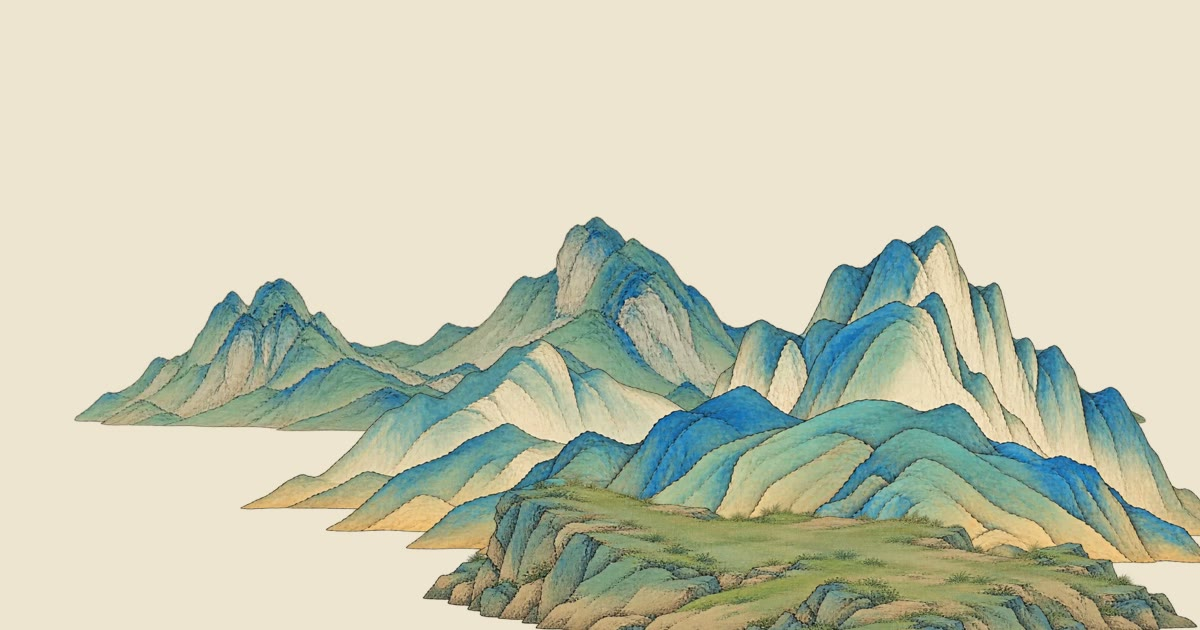
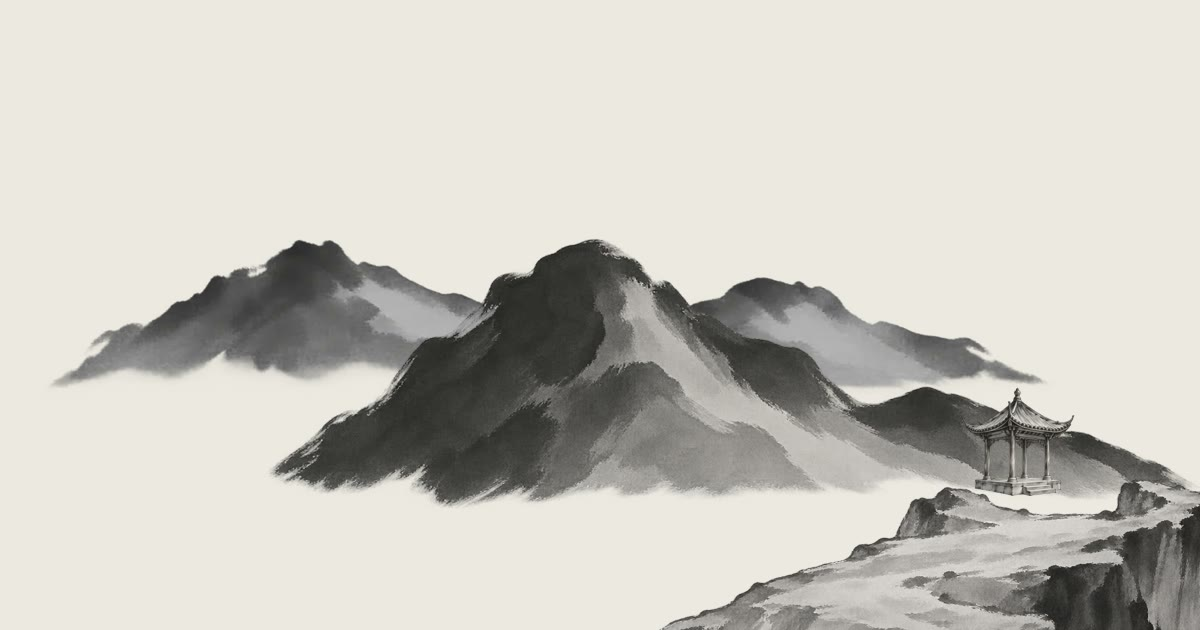
将见山官网改为水墨画风

diff --git a/site/assets/home.css b/site/assets/home.css
@@ -1,10 +1,10 @@
 :root {
-  --paper: #f6f1e6;
-  --ink: #23372f;
-  --muted: #515e51;
-  --green: #2f4b3d;
-  --red: #984f3f;
-  --rule: #23372f2c;
+  --paper: #f4f2ec;
+  --ink: #242824;
+  --muted: #52554f;
+  --green: #313631;
+  --red: #9e4537;
+  --rule: #2428242c;
   --serif: "Songti SC", "Noto Serif CJK SC", "Noto Serif SC", "STSong", "SimSun", serif;
   --sans: -apple-system, BlinkMacSystemFont, "PingFang SC", "Microsoft YaHei", sans-serif;
 }
@@ -34,7 +34,7 @@ section[id] { scroll-margin-top: 84px; }
   position: sticky;
   top: 0;
   z-index: 5;
-  background: #f6f1e6f2;
+  background: #f4f2ecf2;
   border-bottom: 1px solid var(--rule);
   backdrop-filter: blur(16px);
 }
@@ -61,37 +61,37 @@ section[id] { scroll-margin-top: 84px; }
   overflow: hidden;
   min-height: clamp(625px, calc(100svh - 74px), 950px);
   display: flex;
-  background: #ece5d3;
+  background: #ebe9e2;
 }
-.landscape { position: absolute; inset: 0; z-index: -1; overflow: hidden; background: linear-gradient(154deg, #f6efe1 18%, #e8dec4 58%, #b2bc9e); }
+.landscape { position: absolute; inset: 0; z-index: -1; overflow: hidden; background: linear-gradient(154deg, #f9f7f0 15%, #eae8df 55%, #c1c3ba); }
 .hero-sun, .ridge, .shore, .water, .paper-grain { position: absolute; }
 [data-depth] { translate: 0 var(--drift, 0px); }
 .hero-sun {
   top: 13%;
   right: 19%;
-  width: clamp(86px, 11.5vw, 185px);
+  width: clamp(72px, 9.5vw, 152px);
   aspect-ratio: 1;
   border-radius: 50%;
-  background: radial-gradient(circle at 42% 34%, #e3a775, #c27e58);
-  box-shadow: 0 0 62px #ce956955;
+  background: radial-gradient(circle at 42% 34%, #b96752, #9d4234);
+  box-shadow: 0 0 62px #a74b372b;
   opacity: .86;
 }
 .ridge { max-width: none; pointer-events: none; }
-.ridge-far { width: 93%; right: -5%; bottom: 28%; opacity: .55; filter: saturate(.6); mask-image: linear-gradient(90deg, transparent, #000 43%); }
-.ridge-left { width: 58%; left: -30%; bottom: 13%; opacity: .67; filter: saturate(.6); }
-.ridge-right { width: 71%; right: -6%; bottom: 18%; filter: saturate(.72); }
+.ridge-far { width: 101%; right: -3%; bottom: 34%; opacity: .28; mask-image: linear-gradient(90deg, transparent, #000 43%); }
+.ridge-left { width: 74%; left: -30%; bottom: 20%; opacity: .38; }
+.ridge-right { width: 75%; right: -10%; bottom: 20%; opacity: .77; }
 .water {
   inset: 57% 0 0;
-  background: linear-gradient(180deg, transparent, #eee8d5c9 58%, #d6dcc3 100%);
+  background: linear-gradient(180deg, transparent, #f4f2eac2 54%, #dedfd8 100%);
 }
-.shore { right: -8%; bottom: -7%; width: 69%; }
-.island { width: 100%; filter: saturate(.65); }
-.pavilion { position: absolute; width: 11%; left: 38%; top: 11%; filter: saturate(.76); }
-.pines { position: absolute; width: 29%; right: 15%; bottom: 39%; filter: saturate(.65); }
+.shore { right: -6%; bottom: -13%; width: 61%; }
+.ink-bank { width: 100%; }
+.pavilion { position: absolute; width: 13%; left: 61%; top: -18%; }
 .paper-grain {
   inset: 0;
   background: url("media/paper.webp") repeat;
-  opacity: .22;
+  opacity: .20;
+  filter: grayscale(1);
   mix-blend-mode: multiply;
   pointer-events: none;
 }
@@ -101,7 +101,7 @@ section[id] { scroll-margin-top: 84px; }
 .eyebrow span { width: 19px; height: 1px; background: currentColor; }
 .hero h1 { margin: .09em 0 .13em; font-size: clamp(6.2rem, 12.4vw, 12rem); letter-spacing: -.095em; line-height: 1; }
 .hero-line { font: 700 clamp(1.46rem, 2.6vw, 2.55rem)/1.4 var(--serif); letter-spacing: .04em; }
-.hero-detail { margin-top: 13px; color: #38483b; }
+.hero-detail { margin-top: 13px; color: #434641; }
 .hero-actions { display: flex; gap: 24px; align-items: center; flex-wrap: wrap; margin-top: 30px; }
 .button {
   display: inline-flex;
@@ -119,7 +119,7 @@ section[id] { scroll-margin-top: 84px; }
 }
 .button:hover { background: #203c3010; }
 .primary { background: var(--green); border-color: var(--green); color: #fff8e8; }
-.primary:hover { background: #223b2f; }
+.primary:hover { background: #252a25; }
 .text-link { font-size: .875rem; white-space: nowrap; text-decoration: none; border-bottom: 1px solid currentColor; padding-block: 5px; }
 .hero-inscription {
   position: absolute;
@@ -128,7 +128,7 @@ section[id] { scroll-margin-top: 84px; }
   writing-mode: vertical-rl;
   font: 700 .95rem/1.2 var(--serif);
   letter-spacing: .35em;
-  color: #5e5948;
+  color: #53524b;
 }
 .hero-foot {
   position: absolute;
@@ -140,9 +140,9 @@ section[id] { scroll-margin-top: 84px; }
   font-size: .76rem;
   letter-spacing: .12em;
 }
-.hero-foot > span { display: flex; align-items: center; gap: 9px; padding: 3px 9px; border-radius: 3px; background: #f6f1e6df; }
+.hero-foot > span { display: flex; align-items: center; gap: 9px; padding: 3px 9px; border-radius: 3px; background: #f4f2ecdf; }
 .hero-foot i { width: 22px; height: 1px; background: currentColor; }
-.hero-foot a { color: #283c31; background: #f6f1e6df; border-radius: 3px; padding: 3px 9px; text-decoration: none; }
+.hero-foot a { color: #343731; background: #f4f2ecdf; border-radius: 3px; padding: 3px 9px; text-decoration: none; }
 .hero-foot a:hover { text-decoration: underline; }
 
 .scenes, .gallery {
@@ -176,12 +176,12 @@ section[id] { scroll-margin-top: 84px; }
   place-items: center;
   aspect-ratio: 1 / 1.07;
   border: 1px solid #7f87796b;
-  background: linear-gradient(#f4f0dd38, #f4f0dd38), #c7cbb1 url("media/paper.webp") center/360px;
+  background: linear-gradient(#f4f0dd38, #f4f0dd38), #d1d0c7 url("media/paper.webp") center/360px;
   background-blend-mode: normal, multiply;
   overflow: hidden;
 }
-.scene-mount[data-view="rain"] { background-color: #8da59c; }
-.scene-mount[data-view="snow"] { background-color: #d5d8cf; }
+.scene-mount[data-view="rain"] { background-color: #babdb7; }
+.scene-mount[data-view="snow"] { background-color: #d5d5ce; }
 .scene-mount::before { content: ""; position: absolute; inset: 4%; border: 1px solid #26382d38; pointer-events: none; }
 .mount-inner {
   width: 41%;
@@ -196,12 +196,12 @@ section[id] { scroll-margin-top: 84px; }
 .mount-title i { background: #8e473b; color: #fff2d8; padding: 1px 3px; font: 700 .64rem/1.4 var(--serif); }
 .scene-figure figcaption { display: flex; justify-content: space-between; gap: 8px; margin-top: 10px; color: var(--muted); font-size: .76rem; letter-spacing: .1em; }
 
-.breath { position: relative; isolation: isolate; overflow: hidden; background: linear-gradient(158deg, #172d27, #233c34 62%, #304b42); color: #f6ebd1; }
+.breath { position: relative; isolation: isolate; overflow: hidden; background: linear-gradient(158deg, #1b201e, #252a28 62%, #383e39); color: #f6ebd1; }
 .breath-terrain {
   position: absolute;
   inset: 0;
   z-index: -1;
-  background: url("media/distant-ridges.webp") right bottom / min(95%, 1150px) auto no-repeat;
+  background: url("media/ink-ridges.webp") right bottom / min(95%, 1150px) auto no-repeat;
   filter: grayscale(1) brightness(.62);
   opacity: .21;
   pointer-events: none;
@@ -253,7 +253,7 @@ section[id] { scroll-margin-top: 84px; }
   align-items: center;
   gap: 2%;
   padding: 7% 5% 8%;
-  background: #e6ddc8 url("media/paper.webp") center/400px;
+  background: #e5e0d4 url("media/paper.webp") center/400px;
   background-blend-mode: multiply;
   border: 1px solid var(--rule);
 }
@@ -261,13 +261,13 @@ section[id] { scroll-margin-top: 84px; }
   position: relative;
   width: 31%;
   aspect-ratio: 520 / 780;
-  background: url("media/scroll.webp") center / 100% 100% no-repeat;
+  background: url("media/scroll.webp?v=ink") center / 100% 100% no-repeat;
 }
 .scroll-snow { margin-top: 7%; }
 .scroll-rain { margin-top: 11%; }
 .scroll-sheet { position: absolute; inset: 24% 21% 17%; overflow: hidden; }
 .scroll-sheet img { width: 100%; height: 100%; object-fit: cover; object-position: center 29%; }
-.closing { background: #eae5d6; border-block: 1px solid var(--rule); }
+.closing { background: #e8e5dc; border-block: 1px solid var(--rule); }
 .closing-inner { display: flex; flex-wrap: wrap; align-items: center; gap: 22px; padding-block: 40px; }
 .closing img { border-radius: 17px; }
 .closing h2 { margin-top: 5px; font-size: clamp(1.6rem, 3vw, 2.4rem); }
@@ -285,7 +285,7 @@ section[id] { scroll-margin-top: 84px; }
   .shell { width: calc(100% - 72px); }
   .ridge-right { width: 86%; right: -16%; }
   .ridge-far { width: 106%; right: -12%; }
-  .shore { width: 88%; right: -18%; }
+  .shore { width: 76%; right: -15%; }
 }
 @media (max-width: 700px) {
   .shell { width: calc(100% - 40px); }
@@ -300,11 +300,11 @@ section[id] { scroll-margin-top: 84px; }
   .hero { min-height: max(655px, calc(100svh - 62px)); }
   .hero-inner { padding-top: 62px; padding-bottom: 240px; }
   .hero h1 { font-size: clamp(5.6rem, 19vw, 8rem); }
-  .hero-sun { top: auto; bottom: 31%; right: 13%; }
-  .ridge-far { width: 142%; right: -22%; bottom: 18%; mask-image: none; }
-  .ridge-right { width: 125%; right: -31%; bottom: 13%; }
-  .ridge-left { width: 93%; left: -48%; bottom: 10%; }
-  .shore { width: 120%; right: -29%; bottom: -2%; }
+  .hero-sun { top: auto; bottom: 30%; right: 14%; }
+  .ridge-far { width: 142%; right: -22%; bottom: 23%; mask-image: none; }
+  .ridge-right { width: 125%; right: -33%; bottom: 16%; }
+  .ridge-left { width: 93%; left: -41%; bottom: 12%; }
+  .shore { width: 105%; right: -23%; bottom: -5%; }
   .hero-inscription { display: none; }
   .hero-foot { bottom: 15px; letter-spacing: .04em; }
   .hero-actions { gap: 17px; margin-top: 20px; }

diff --git a/site/index.html b/site/index.html
@@ -5,14 +5,14 @@
   <meta name="viewport" content="width=device-width, initial-scale=1, viewport-fit=cover">
   <title>见山 · 听风看月，在诗中冥想</title>
   <meta name="description" content="见山是一款古诗词冥想 App。循着诗句听风看月，跟随日月呼吸，把喜欢的景色收入画廊。">
-  <meta name="theme-color" content="#f2ecdd">
+  <meta name="theme-color" content="#eeece6">
   <link rel="canonical" href="https://zylcold.github.io/jianshan-site/">
   <meta property="og:type" content="website">
   <meta property="og:title" content="见山 · 听风看月，在诗中冥想">
   <meta property="og:description" content="循着诗句听风看月，把片刻清静收入画廊。">
-  <meta property="og:image" content="https://zylcold.github.io/jianshan-site/assets/media/share.jpg">
+  <meta property="og:image" content="https://zylcold.github.io/jianshan-site/assets/media/share.jpg?v=ink">
   <link rel="icon" href="assets/media/icon.png" type="image/png">
-  <link rel="stylesheet" href="assets/home.css">
+  <link rel="stylesheet" href="assets/home.css?v=ink">
   <script src="assets/home.js" defer></script>
 </head>
 <body>
@@ -28,7 +28,7 @@
         <a href="#breath">呼吸</a>
         <a href="#gallery">画廊</a>
       </div>
-      <a class="nav-download" href="https://apps.apple.com/cn/app/id6820524973">App Store <span aria-hidden="true">↗</span></a>
+      <a class="nav-download" href="https://apps.apple.com/app/id6820524973">App Store <span aria-hidden="true">↗</span></a>
     </nav>
   </header>
 
@@ -36,14 +36,13 @@
     <section class="hero" aria-labelledby="hero-title">
       <div class="landscape" aria-hidden="true">
         <div class="hero-sun" data-depth=".09"></div>
-        <img class="ridge ridge-far" data-depth=".12" src="assets/media/distant-ridges.webp" alt="" fetchpriority="high">
-        <img class="ridge ridge-left" data-depth=".21" src="assets/media/mountain-main.webp" alt="">
-        <img class="ridge ridge-right" data-depth=".28" src="assets/media/mountain-layered.webp" alt="" fetchpriority="high">
+        <img class="ridge ridge-far" data-depth=".12" src="assets/media/ink-ridges.webp" alt="" fetchpriority="high">
+        <img class="ridge ridge-left" data-depth=".21" src="assets/media/ink-mountain.webp" alt="">
+        <img class="ridge ridge-right" data-depth=".28" src="assets/media/ink-peak.webp" alt="" fetchpriority="high">
         <div class="water"></div>
         <div class="shore" data-depth=".43">
-          <img class="island" src="assets/media/island.webp" alt="">
-          <img class="pavilion" src="assets/media/pavilion.webp" alt="">
-          <img class="pines" src="assets/media/pines.webp" alt="">
+          <img class="ink-bank" src="assets/media/ink-bank.webp" alt="">
+          <img class="pavilion" src="assets/media/ink-pavilion.webp" alt="">
         </div>
         <div class="paper-grain"></div>
       </div>
@@ -54,13 +53,13 @@
           <p class="hero-line">听风看月，在诗中冥想。</p>
           <p class="hero-detail">循着一句诗走进山水。听自然声，随日月呼吸，<br class="wide-only">留几分钟给自己。</p>
           <div class="hero-actions">
-            <a class="button primary" href="https://apps.apple.com/cn/app/id6820524973">在 App Store 下载 <span aria-hidden="true">↗</span></a>
+            <a class="button primary" href="https://apps.apple.com/app/id6820524973">在 App Store 下载 <span aria-hidden="true">↗</span></a>
             <a class="text-link" href="#scenes">先观一境 <span aria-hidden="true">↓</span></a>
           </div>
         </div>
         <p class="hero-inscription" aria-hidden="true">山中有清音</p>
         <div class="hero-foot">
-          <span><i></i> 卷首 · 青绿山水</span>
+          <span><i></i> 卷首 · 水墨山水</span>
           <a href="#scenes">向下展卷 <span aria-hidden="true">↓</span></a>
         </div>
       </div>
@@ -79,12 +78,12 @@
         <article class="poem" id="autumn" data-scene data-audio="stream" data-sound="溪流">
           <p class="poem-author">唐 · 王维</p>
           <blockquote>空山新雨后，<br>天气晚来秋。</blockquote>
-          <p class="poem-note">空山新雨，明月清泉。<span>· 淡彩</span></p>
+          <p class="poem-note">空山新雨，明月清泉。<span>· 水墨</span></p>
         </article>
         <article class="poem" id="rain" data-scene data-audio="rain" data-sound="细雨" hidden>
           <p class="poem-author">宋 · 苏轼</p>
           <blockquote>莫听穿林打叶声，<br>何妨吟啸且徐行。</blockquote>
-          <p class="poem-note">穿林细雨，缓步徐行。<span>· 夜泊</span></p>
+          <p class="poem-note">穿林细雨，缓步徐行。<span>· 水墨</span></p>
         </article>
         <article class="poem" id="snow" data-scene data-audio="wind" data-sound="山风" hidden>
           <p class="poem-author">唐 · 柳宗元</p>
@@ -99,8 +98,8 @@
       <figure class="scene-figure">
         <div class="scene-mount" data-view="autumn">
           <div class="mount-inner">
-            <img src="assets/media/autumn.webp" data-art="autumn" width="393" height="852" alt="见山《山居秋暝》淡彩诗境" loading="lazy" decoding="async">
-            <img src="assets/media/rain.webp" data-art="rain" width="393" height="852" alt="见山《定风波》夜泊诗境" loading="lazy" decoding="async" hidden>
+            <img src="assets/media/autumn.webp?v=ink" data-art="autumn" width="393" height="852" alt="见山《山居秋暝》水墨诗境" loading="lazy" decoding="async">
+            <img src="assets/media/rain.webp?v=ink" data-art="rain" width="393" height="852" alt="见山《定风波》水墨诗境" loading="lazy" decoding="async" hidden>
             <img src="assets/media/snow.webp" data-art="snow" width="393" height="852" alt="见山《江雪》水墨诗境" loading="lazy" decoding="async" hidden>
           </div>
           <div class="mount-title" aria-hidden="true"><span>見山詩境</span><i>山</i></div>
@@ -132,10 +131,10 @@
           <div class="scroll-sheet"><img src="assets/media/snow.webp" width="393" height="852" alt="水墨画卷《江雪》" loading="lazy"></div>
         </figure>
         <figure class="scroll scroll-autumn">
-          <div class="scroll-sheet"><img src="assets/media/autumn.webp" width="393" height="852" alt="淡彩画卷《山居秋暝》" loading="lazy"></div>
+          <div class="scroll-sheet"><img src="assets/media/autumn.webp?v=ink" width="393" height="852" alt="水墨画卷《山居秋暝》" loading="lazy"></div>
         </figure>
         <figure class="scroll scroll-rain">
-          <div class="scroll-sheet"><img src="assets/media/rain.webp" width="393" height="852" alt="夜泊画卷《定风波》" loading="lazy"></div>
+          <div class="scroll-sheet"><img src="assets/media/rain.webp?v=ink" width="393" height="852" alt="水墨画卷《定风波》" loading="lazy"></div>
         </figure>
       </div>
       <div class="gallery-copy">
@@ -153,7 +152,7 @@
           <h2 id="closing-title">留几分钟，选诗入境</h2>
           <p>iPhone 需 iOS 26 或更新版本</p>
         </div>
-        <a class="button primary" href="https://apps.apple.com/cn/app/id6820524973">在 App Store 下载 <span aria-hidden="true">↗</span></a>
+        <a class="button primary" href="https://apps.apple.com/app/id6820524973">在 App Store 下载 <span aria-hidden="true">↗</span></a>
       </div>
     </section>
   </main>

diff --git a/README.md b/README.md
@@ -1,6 +1,6 @@
 # 见山官网
 
-[访问官网](https://zylcold.github.io/jianshan-site/) · [App Store](https://apps.apple.com/cn/app/id6820524973)
+[访问官网](https://zylcold.github.io/jianshan-site/) · [App Store](https://apps.apple.com/app/id6820524973)
 
 静态站点，使用 HTML、CSS 和原生 JavaScript。首页包含滚动视差、三幅诗境、自然声试听、呼吸引导与画廊展示。自然声由访客主动播放，切换诗境或隐藏页面时停止。系统开启减少动态效果后，保留呼吸文字提示并停用视差和光晕变化。
 
@@ -14,13 +14,13 @@ python3 -m http.server 8080 --directory site
 
 ## 素材来源
 
-素材取自见山 App 工程，图片压缩为 WebP，首页山水用独立的透明栅格图分层排布。
+素材取自见山 App 工程，图片压缩为 WebP，首页水墨山水用独立的透明栅格图分层排布。
 
 | 网站素材 | App 工程来源 |
 | --- | --- |
-| 山峦、近岸、亭与松 | `Jianshan/Resources/GongBiTerrain/`、`artwork/gongbi-generated/pines.png` |
-| 图标、宣纸与素绢挂轴 | `Jianshan/Assets.xcassets/` |
-| 《山居秋暝》《定风波》《江雪》 | `promo/scene-frames/` 中的淡彩、夜泊、水墨渲染 |
+| 墨山、近岸与亭 | `Jianshan/Resources/InkTerrain/`、`Jianshan/Resources/InkMotifs/` |
+| 图标、宣纸与墨绫挂轴 | `Jianshan/Assets.xcassets/` |
+| 《山居秋暝》《定风波》《江雪》 | App 水墨渲染，使用 `scripts/render_metal_preview.py` 的诗境输出及 `promo/scene-frames/ink/` 素材 |
 | 溪流、细雨、山风 | `Jianshan/Resources/Audio/` 中的 AAC 录音，署名与许可见首页底部 |
 
 呼吸引导演示沿用 App 的 `BreathPattern.poetry` 节奏，吸气 6 秒，呼气 10 秒。
